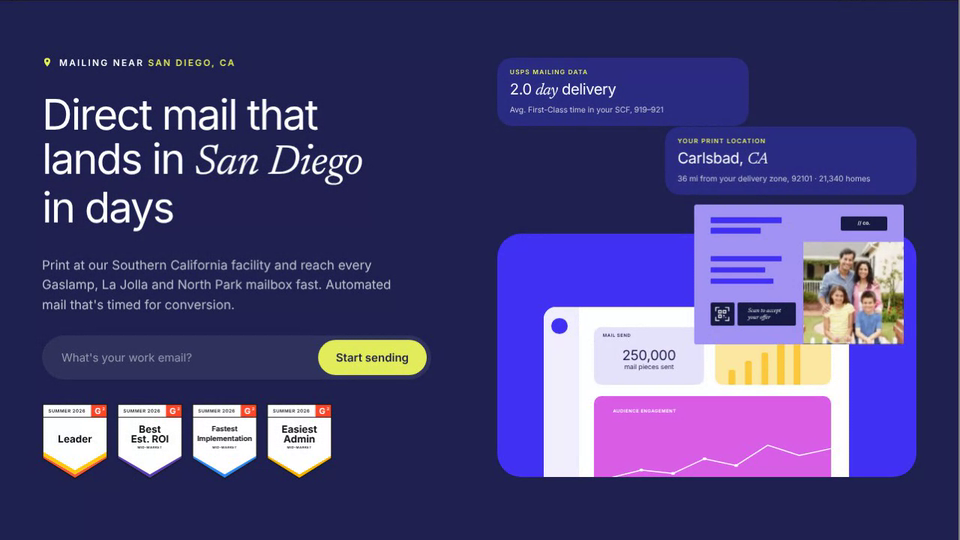
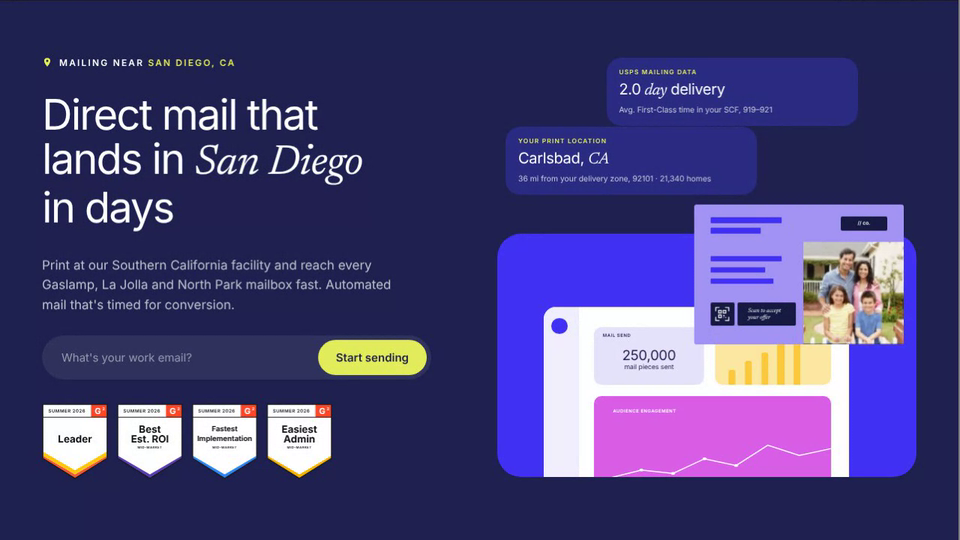
Location Hero: blurb positions (#285)
* Add Location Hero: Lob-style hero that switches San Francisco to Miami

Claude-Session: https://claude.ai/code/session_01AHeBdxeACcd88pkrxSw1Hy

* Location Hero: real mailpiece and photo, switcher in header, no logo or sign in, looser headline

Claude-Session: https://claude.ai/code/session_01AHeBdxeACcd88pkrxSw1Hy

* Location Hero: rounder, offset blurbs, shorter purple box, G2 badges, 3 line title, switcher in nav

Claude-Session: https://claude.ai/code/session_01AHeBdxeACcd88pkrxSw1Hy

* Location Hero: rebuild the mailpiece from the pink template gallery postcard layout in the purple style

Claude-Session: https://claude.ai/code/session_01AHeBdxeACcd88pkrxSw1Hy

* Location Hero: squarer postcard, QR beside scan block, smaller logo, bigger photo, G2 badges redrawn to match

Claude-Session: https://claude.ai/code/session_01AHeBdxeACcd88pkrxSw1Hy

* Location Hero: San Diego, tighter title, no crosshairs, chart up, new QR, postcard right, Start sending CTA

Claude-Session: https://claude.ai/code/session_01AHeBdxeACcd88pkrxSw1Hy

* Location Hero: longer blurbs, tighter title line height

Claude-Session: https://claude.ai/code/session_01AHeBdxeACcd88pkrxSw1Hy

* Location Hero: no drop shadow on the postcard

Claude-Session: https://claude.ai/code/session_01AHeBdxeACcd88pkrxSw1Hy

* Location Hero: blurbs placed in the marked positions

Claude-Session: https://claude.ai/code/session_01AHeBdxeACcd88pkrxSw1Hy

---------

Changed region(s): [[0.5, 0.0889, 0.9688, 0.3852]]

diff --git a/location-hero/index.html b/location-hero/index.html
@@ -39,7 +39,7 @@ h1 i{font-family:var(--serif);font-style:italic;letter-spacing:-.01em}
 /* illustration */
 .stage{position:relative;aspect-ratio:1/1;width:100%;max-width:600px;justify-self:end;container-type:inline-size}
 .blurbs div.bl{position:absolute;width:60%;background:var(--card);border-radius:20px;padding:2.6cqw 3cqw;color:#fff;transition:opacity .35s,transform .35s,filter .35s}
-#b1{left:0;top:0}#b2{right:0;top:16.5%}
+#b1{left:26%;top:0}#b2{left:2%;top:16.5%}
 .bl.out{opacity:0;transform:translateY(8px);filter:blur(5px)}
 .bl small{display:block;font:600 1.5cqw/1 var(--sans);letter-spacing:.14em;text-transform:uppercase;color:var(--lime);margin-bottom:1.4cqw}
 .bl strong{display:block;font:400 3.6cqw/1.1 var(--sans);letter-spacing:-.02em}
